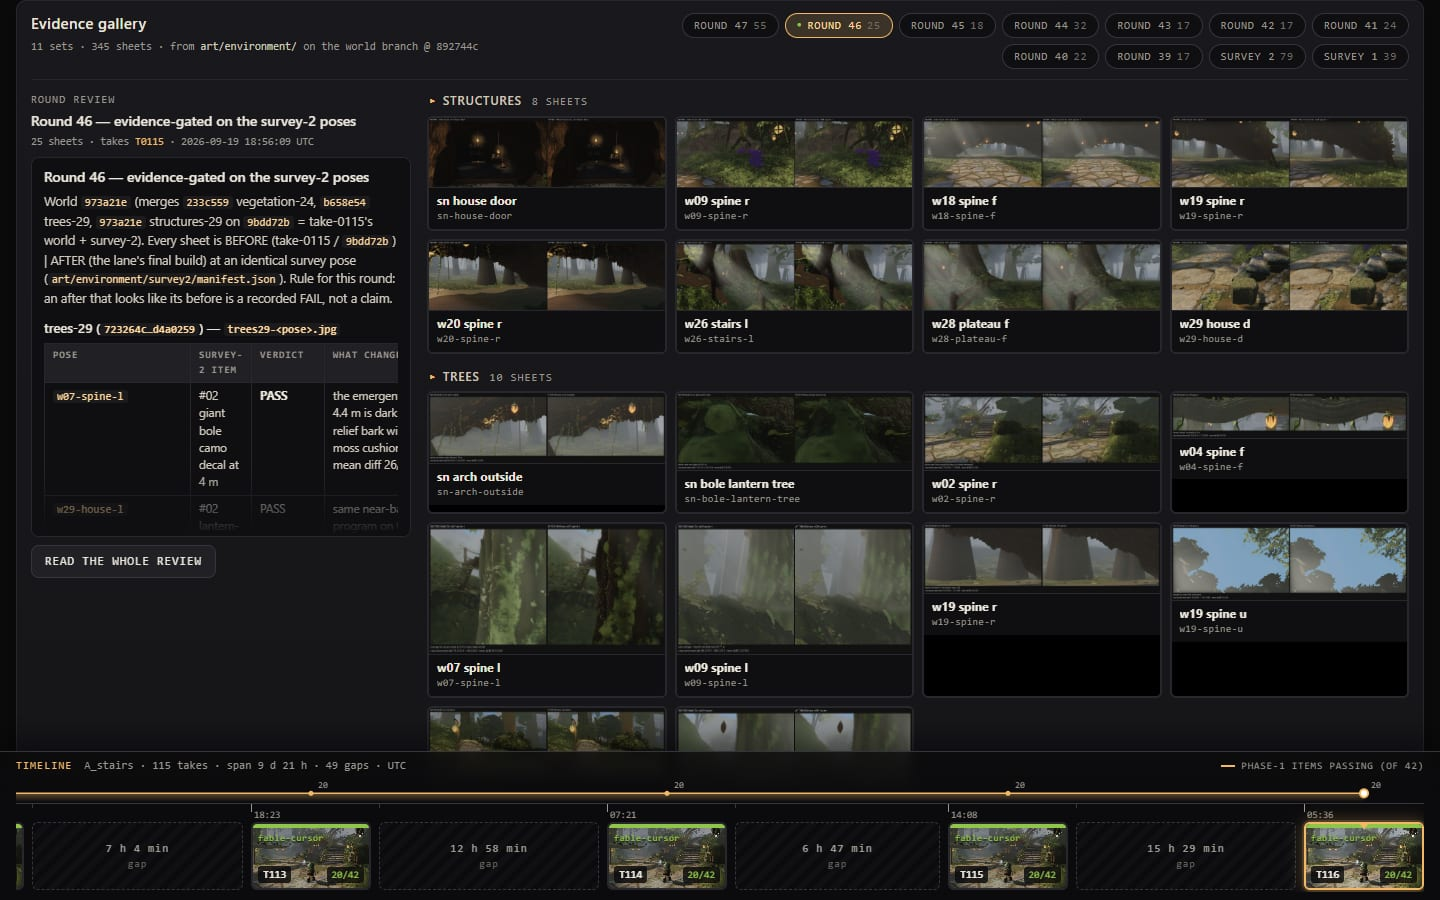
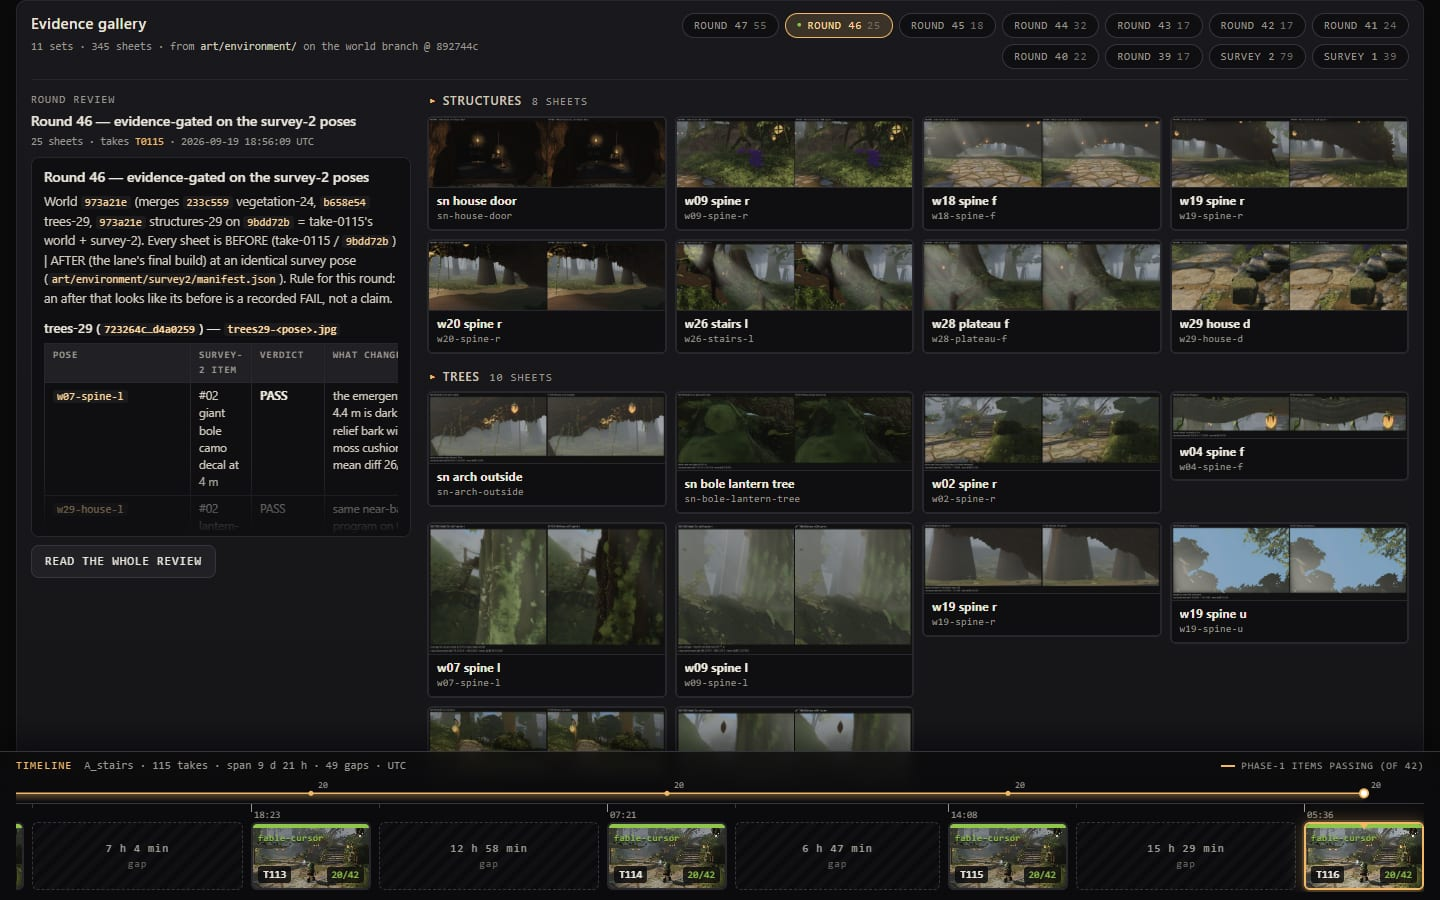
art/monitor: the take-0116 player strip on the monitor (14 native poses) + lightbox; strip index

Changed region(s): [[0.8125, 0.5289, 1.0, 0.5911], [0.8125, 0.7156, 0.9688, 0.7467], [0.3125, 0.56, 0.4375, 0.5911]]

diff --git a/art/monitor/fable-6-2026-09-19/README.md b/art/monitor/fable-6-2026-09-19/README.md
@@ -4,7 +4,7 @@ QA screenshots of the monitor site on the real `monitor` branch data (115 takes,
 Chrome via `site/dev/screenshot.mjs --take take-0116 --prev take-0115`), taken after the review
 fixes (`d423436`). The evidence gallery and the headline read from the same data the live site
 will read once a take is published with this code (`monitor.mjs syncEvidence`); the player strip
-shows its empty state here because no take has published one yet.
+is the take-0116 strip rendered natively at the end of the measurement chain.
 
 | file | what |
 | --- | --- |
@@ -12,6 +12,7 @@ shows its empty state here because no take has published one yet.
 | `02-directors-cut-headline.jpg` | the header alone |
 | `03-evidence-gallery-round-46.jpg` | the evidence gallery on the take's round: the README rendered beside the sheets grouped by lane (structures / trees / veg) at their own aspect ratios; the set chips for rounds 39–47 and the two surveys |
 | `04-lightbox-sheet.jpg` | a sheet in the lightbox (prev / next, Esc; A/B when the sheet is a before/after pair) |
-| `05-player-strip-empty-state.jpg` | "what the player sees" before any take carries a strip |
+| `05-player-strip-take-0116.jpg` | "what the player sees": the take-0116 strip — 14 player-height poses rendered natively from `973a21e` (`site/tools/player-strip.mjs`), published into a local copy of the monitor data with `monitor.mjs syncPlayerStrip` |
 | `06-mobile-390.jpg` | the same page at 390 px |
 | `07-waiting-state.jpg` | the Pages build with no data (the waiting state still shows the rubric and the reference reel) |
+| `08-lightbox-pose-take-0116.jpg` | a pose of the strip in the lightbox (T116; the this-take ↔ previous toggle appears once an earlier take carries a strip) |
